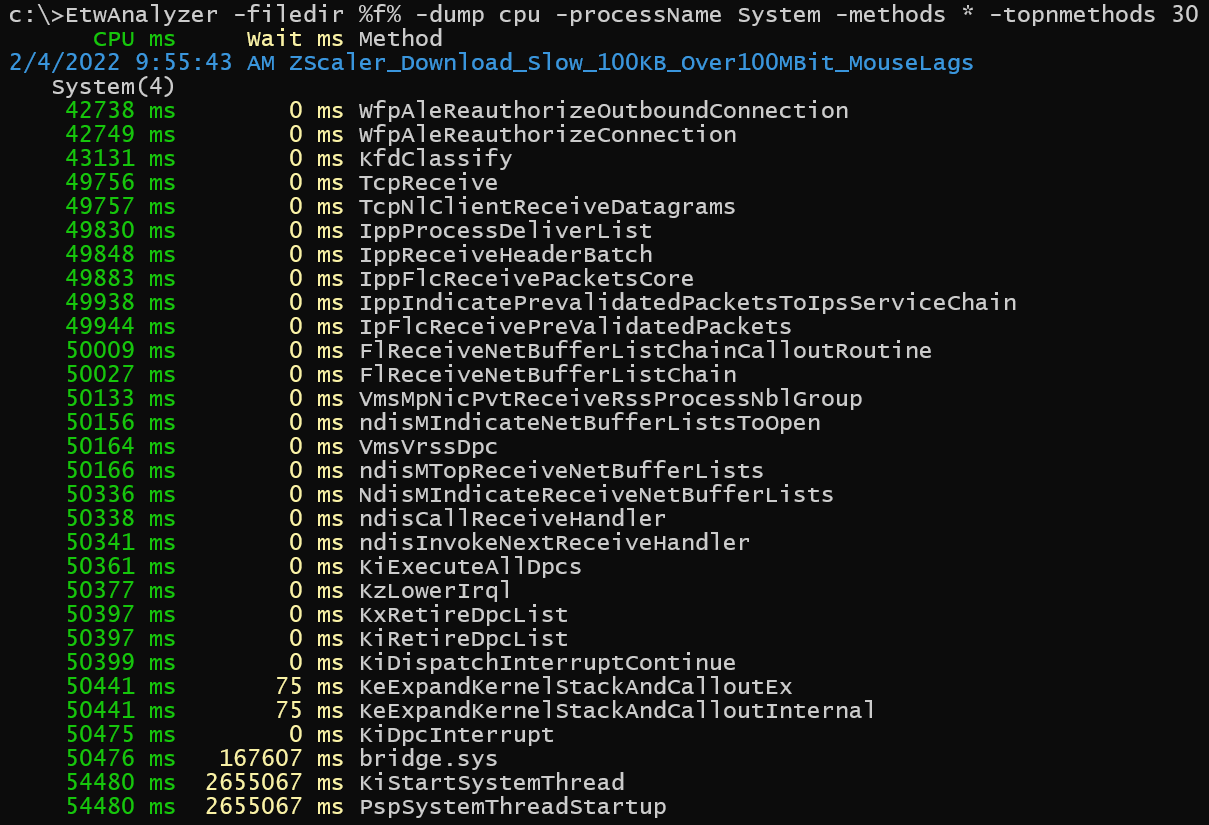
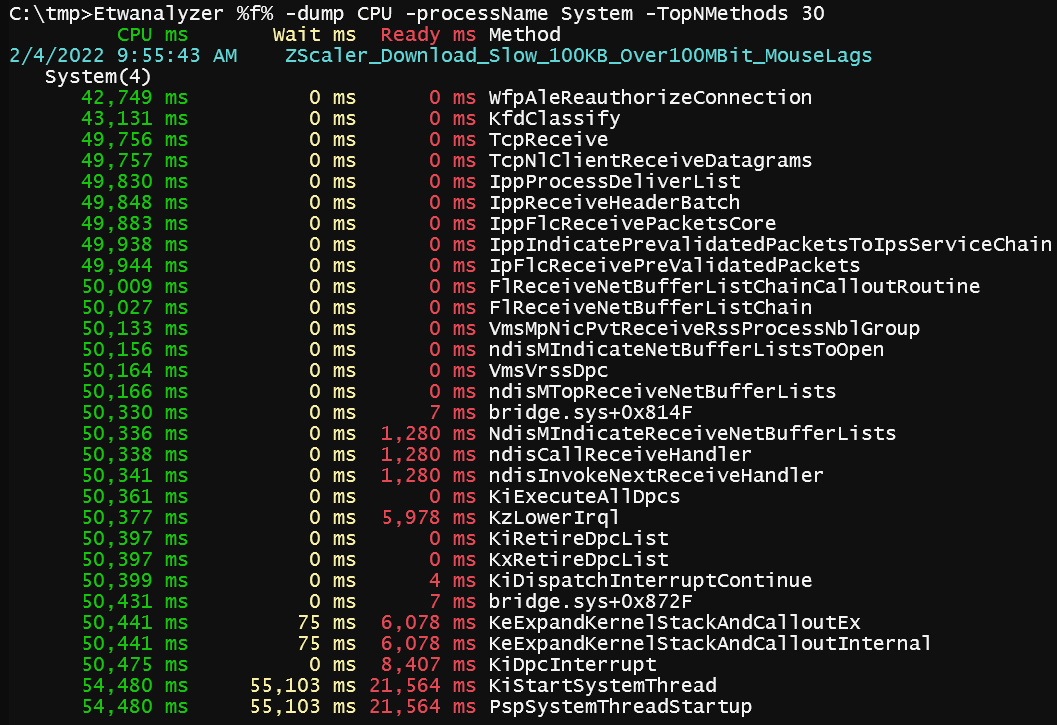
Update Docu for upcoming Release

Changed region(s): [[0.0, 0.0, 0.9991, 1.0], [0.8117, 0.0, 0.9991, 0.0303]]

diff --git a/ETWAnalyzer/Documentation/DumpCPUExtended.md b/ETWAnalyzer/Documentation/DumpCPUExtended.md
@@ -1,0 +1,123 @@
+# Extended CPU Metrics
+
+With the introduction of hybrid CPUs and dynamic frequency shifts from ca. 1 GHz up to 6 GHz performance has become a lot harder to measure and to compare. 
+Internally Microsoft did add a lot of instrumentation but it is not documented how to make use of it. This is an attempt to shed more light on the topic which 
+is the result of many experiments.
+
+ETW can not only record CPU sampling and Context Switch events but also (in not virtualized environments) CPU Frequency, Temperature, CPU Topology and Power profile
+settings. 
+
+## Recording Data
+[ETWController](https://github.com/Alois-xx/etwcontroller) brings in a custom and commented wpr profile [MultiProfile.wprp](https://github.com/Alois-xx/etwcontroller/blob/master/ETWController/ETW/MultiProfile.wprp) profile which can enable all necessary providers. 
+To go to full speed download the profile
+```
+curl https://raw.githubusercontent.com/Alois-xx/etwcontroller/master/ETWController/ETW/MultiProfile.wprp > %temp%\MultiProfile.wprp
+# Replace in .wprp file Strict="true" to nothing to make recording of wpr data possible
+# even when some CPU counter recording is already running
+# This looks to be some bug of WPR which bails out even if you do not intend to record any CPU counters
+wpr -start %temp%\MultiProfile.wprp!CSwitch -start %temp%\MultiProfile.wprp!Frequency -start %temp%\MultiProfile.wprp!Network
+wpr -stop %temp%\FirstLight.etl 
+```
+## Extracting Data
+By default extended CPU metrics is captured. If you add during extraction ```-NoReady``` you can prevent the generation of extended ready metrics data. When CPU Frequency data
+was recorded it is always extracted with the CPU extractor. To get everything use
+```
+C>EtwAnalyzer -extract all -fd %temp%\FirstLight.etl -SymServer ms 
+1 - files found to extract.
+Success Extraction of C:\Users\kraualaz\AppData\Local\Temp\Extract\FirstLight.json
+Extracted 1/1 - Failed 0 files.
+Extracted: 1 files in 00 00:04:37, Failed Files 0
+```
+After extraction you can go to the Extract folder or you can define a variable ```set f=-fd C:\Users\kraualaz\AppData\Local\Temp\Extract\FirstLight.json```
+which is expanded in your shell so you have a short command line. You can combine as many ```-fd``` clauses as you like. It can be folder of extracted files, or you
+filter by substrings like ```-fd C:\...\*fast*.json -fd c:\....\*slow*.json```.
+
+## Dumping Extended Data
+
+
+When you have a hybrid CPU and captured CPU topology data then you get also more details about how many CPUs of each core type you have and what the base frequency for each core type is.
+```
+ETWAnalyzer %f% -dump stats
+```
+![](Images/DumpCPUTopology.png "Dump CPU Topology")
+
+
+To dump extended CPU data add ```-Details``` to ```-Dump CPU```. Depending on what is recorded (Frequency, context switch data) more or less data is displayed. 
+Since the output is multiple lines per method it is usually best to limit it to a few lines. To reduce the amount of data you can use  ```-NoFrequency ``` to omit frequency data, 
+```-NoPriority ``` to omit the process priority besides the executable name and ```-NoReady ``` to omit ready and extended ready data. 
+
+```
+C:\Builds\ETWAnalyzer\ETWAnalyzer>Etwanalyzer -fd %temp%\Extract\FirstLight.json -dump cpu  -topn 1  -topnmethods 1 -details 
+```
+Below is an example of a real case where for two processes the runtime differs by over a factor 6. Because of the large speed difference only partial recordings were done.
+The Duration field which is the time the method was seen last-first time during the trace cannot be used to compare performance. 
+
+![](Images/DumpCpuExtended.png "Dump CPU Extended")
+Windows differentiates P (Power) and E (Efficiency) Cores by an Efficiency Class number which is returned by [GetSystemCpuSetInformation](https://learn.microsoft.com/en-us/windows/win32/procthread/getsystemcpusetinformation) where the 
+SYSTEM_CPU_SET_INFORMATION structure contains the byte field EfficiencyClass. The EfficiencyClass numbering starts at 0 which mark the most power efficient CPUs (usually E-Cores), and then continues with more power hungry
+cores at efficiency class 1 (P-Cores) and so on. It is unclear if with this numbering scheme P cores get an always changing number if more than two efficiency core types exist in one CPU. 
+
+ETWAnalyzer prints the CPU consumption per core type and average frequency. It also prints the CPU affinity of
+the executing threads. That is a best effort because when one pins threads to specific cores no ETW event is generated (to my knowledge). The affinity is determined only during start or stop of an ETW recording for
+still running threads which might be helpful but do not interpret too much into that one. 
+
+Besides frequency and core type also the CPU sleep state plays an important role for performance. A  [Context Switch event](https://learn.microsoft.com/en-us/windows/win32/etw/cswitch) contains a 
+```PreviousCState``` field which tells you when the CPU was in a hardware enabled deep sleep state when it is 1. In WPA it is the column *Prev CState* by which you can group when analyzing CPU Usage (Precise) data. 
+The processor can be powered down completely (including caches) when reaching [C6 state](https://web.stanford.edu/class/ee380/Abstracts/200205-slides.pdf) 
+(see page 36 from Richard L. Sites for more details where Google has found bad performance in their clusters) which is associated with a wakeup cost of up to 100 us or more depending on the CPU type.
+
+Since hardware sleep states are so impactful to performance ETWAnalyzer collects this in an extra metric named ```CPU Wakeup Ready``` times which contains the Ready percentiles and total sum of all context switch events where a free 
+CPU (Idle process was owning the CPU) is waking up from a potentially hardware enabled deep sleep state. 
+If you look at picture in the first process (OpenMPTest 17336) the 50% percentile (also known as median) is 66,9 us which is in line with the expected wakeup time from a deep C6 sleep state. 
+You will find such high wakeup times mostly on server machines, where the C6 sleep state is enabled in the BIOS. On consumer machines you will see usually a much lower wakeup time of (see second process) e.g. 5.8 us.
+The reason is that consumer machines have set a (Intel only) CPU flag to enable C1 Demotion which is telling the CPU to ignore deep sleep requests by the idle threads if the number of sleep requests per time frame is too high.
+
+The other Ready times are all non idle ready times which can show cross process interference or thread ping pong inside one application. In our case by far most events were context switch events from blocking calls which were
+also performed from deep sleep states but the previous owner of the CPU was OpenMPTest and not Idle which is the reason why it shows up under ```Other Ready```. 
+
+The second OpenMPTest run did have a much lower ```CPU Wakeup Ready``` time because the CPU Feature flags C1 Demotion was enabled resulting in much less C6 state transitions which results in higher power consumption but
+lower latencies.
+
+
+### Comparing CPU Data with different frequencies
+When you record CPU data with frequency and you try to compare data you might have a hard time because of different CPU frequencies. For that ETWAnalyzer has the ```-Normalize``` flag which calculates the CPU consumption
+normalized to the nominal (100%) frequency.
+```
+ETWAnalyzer %f% -dump cpu -topn 2 -topnmethods 1 -details  -normalize -noready 
+```
+![](Images/DumpCpu_Normalized.png "Dump CPU Normalized")
+
+In this case the test application did have the same frequency, it was just running not long enough because the process was interrupted with Ctrl-C which is visible
+in the return code when you dump the processes: 
+```
+ETWAnalyzer %f% -dump process -pn OpenMPTest
+```
+![](Images/DumpProcess_CtrlC.png "Dump Process Ctrl-C")
+
+WPA dynamically adds columns to CPU Usage (Sampled/Precise) when your record frequency data. 
+The new WPA columns are 
+ - CPU Frequency
+	- You can plot frequency over time or average it in the table
+ - CPU Frequency (in view)
+	- In a table it will calculate only over the values which are currently visible
+ - CPU Performance
+	- % over/below nominal frequency
+ - (%) Weight by Normalized Utility
+	- Calculates CPU consumption to normalized 100% frequency (no boost)
+ - (%) Weight by Utility
+	- Same as Normalized Utiliy
+
+![](Images/WPA_Frequency.png "WPA Frequency")
+
+In the table above you can e.g. find that the normalized CPU consumption in the ...$omp$1 method was idential (112 s vs 113 s) while the measured one (89 s vs 60 s) is quite different due to different
+CPU frequency which was 2.9 GHz vs 4.7 GHz.
+
+## Hybrid CPU Scheduling
+Running workloads on hybrid CPUs is challenging when the workload is running not on the expected core type. ETWAnalyzer is one of the very few tools which makes
+it easy to find out on which cores at which frequencies your workload was running. If you record the data with MultiProfile.wprp you get also the currently active
+power profile settings dumped to ETW which can be used to compare different Windows power profiles with [-Dump Power](DumpPower.md).
+To compare different power profiles you can run a simple CPU loop which runs for 10s on multiple threads. If you run e.g. 12 threads for 10s you 
+consume by definition regardless of the CPU type 120s of CPU. If due to concurrency and OS madness your threads are piling up on the E or P cores 
+only you would find CPU oversubscription issues when your overall CPU consumption was below 120s. That can be backed by 
+extracting the data to a CSV file and process the data further e..g with Excel to find scheduling issues with different Windows Power profile settings by adding ```-csv issue.csv```
+which all dump commands support.

diff --git a/ReadMe.md b/ReadMe.md
@@ -29,6 +29,28 @@ You want to contribute, miss specific data, or want to add your specific dump co
 ## Documentation
 See [Documentation Folder in Repo](https://github.com/Siemens-Healthineers/ETWAnalyzer/tree/2.5.10.0/ETWAnalyzer/Documentation)
 
+## Dump Commands
+- [CPU](ETWAnalyzer/Documentation/DumpCPUCommand.md) 
+- [CPU Extended](ETWAnalyzer/Documentation/DumpCPUExtended.md) 
+- [Disk](ETWAnalyzer/Documentation/DumpDiskCommand.md) 
+- [Dns](ETWAnalyzer/Documentation/DumpDNSCommand.md)
+- [Exception](ETWAnalyzer/Documentation/DumpExceptionCommand.md)
+- [File](ETWAnalyzer/Documentation/DumpFileCommand.md) 
+- [LBR](ETWAnalyzer/Documentation/DumpLBRCommand.md)
+- [Mark](ETWAnalyzer/Documentation/DumpMarkCommand.md)
+- [Memory](ETWAnalyzer/Documentation/DumpMemoryCommand.md) 
+- [PMC](ETWAnalyzer/Documentation/DumpPMCCommand.md)
+- [Power](ETWAnalyzer/Documentation/DumpPower.md)
+- [Process](ETWAnalyzer/Documentation/DumpProcessCommand.md)  
+- [Stats](ETWAnalyzer/Documentation/StatsCommand.md)
+- [TCP](ETWAnalyzer/Documentation/DumpTCPCommand.md)
+- [TestRun](ETWAnalyzer/Documentation/DumpTestRunCommand.md)
+- [ThreadPool](ETWAnalyzer/Documentation/DumpThreadPoolCommand.md) 
+- [Version](ETWAnalyzer/Documentation/DumpVersionCommand.md)
+
+They all support -filedir/-fd and an extensive command line help what you can dump from the extracted data. 
+
+
 ## Data Generation
 The easiest way to get ETW data is to install [ETWController](https://github.com/Alois-xx/etwcontroller) which comes with predefined WPR profiles. 
 ETWController supports
@@ -56,7 +78,7 @@ Normally you would want to use all builtin extractors which include
 | ------------- | ------------- |
 | All  | Include all extractors  |
 | Default  | Include all extractors except File  |
-| CPU|CPU consumption of all proceses part of the recording. CPU Sampling (*PROFILE*) and/or Context Switch tracing (*CSWITCH*) data with stacks must be present. |
+| CPU|CPU consumption and priority of all proceses part of the recording. Includes CPU Frequency per method and CPU wakeup metrics. CPU Sampling (*PROFILE*) and/or Context Switch tracing (*CSWITCH*) data with stacks must be present. |
 | Stacktag | Get from all processes the CPU call stack summary by the WPA stacktag names. Same recording settings as for CPU are needed. |
 | Memory| Get workingset/committed memory machine wide and of all processes at trace start and a second time at trace end. *MEMINFO_WS* must be present. |
 | Exception|Get all .NET Exception Messages, Type and their call stacks when present with Process,ThreadId and TimeStamp. The *Microsoft-Windows-DotNETRuntime* ETW provider with *ExceptionKeyword 0x8000* and stacks must be present. |
@@ -87,7 +109,7 @@ ETWAnalyzer %f% -dump CPU -topN 1 -methods * -sortby stackdepth -MinMaxCPUMs 100
 ETWAnalyzer %f% -dump CPU -topN 1 -methods * -sortby stackdepth -MinMaxCPUMs 1000 -includedll -threadcount
 ETWAnalyzer %f% -dump CPU -topN 1 -methods * -sortby stackdepth -MinMaxCPUMs 1000 -FirstLastDuration s s
 ETWAnalyzer %f% -dump Stats -Properties SessionDurations
-```
+``` 
 
 This shows a Microsoft Bug at work while some serialization performance test was executed.
 
@@ -98,24 +120,33 @@ After extraction from a > 600 MB input file a small ca. 6 MB file in the output 
 
 ETWAnalyzer will query all files in the current directory if you do not use -filedir/-fd xxx.  
 The first query would be to check on which machine with how much memory, CPU and Windows version it was running. 
-
+```
+set f=-fd c:\Temp\C:\Temp\Extract\ZScaler_Download_Slow_100KB_Over100MBit_MouseLags
+EtwAnalyzer %f% -dump Stats 
+```
 ![alt text](ETWAnalyzer/Documentation/Images/DumpStatsCommand.png "Dump Stats")
 
 If you have a directory of files you can limit the output to specific properties with e.g. *-Properties MemorySizeMB,OSName,NumberOfProcessors,CPUSpeedMHz,CPUVendor,CPUName* to
 get a quick overview of the machine specs of a bunch of extracted ETL files. 
 
 Now we want to get an overview what the CPU consumption was of the top 9 CPU consumers of that file
-
+```
+EtwAnalyzer %f% -dump CPU -topN 9 
+```
 ![alt text](ETWAnalyzer/Documentation/Images/DumpCPUTop9.png "Dump CPU Top 9")
 
 The mouse was hanging while I was downloading data. At the same time the CPU was fully utilized on my quad core notebook.
 The by far highest CPU consumer was the Windows Kernel which sits in the System process. Lets pick that one and print the top 30 methods.
 
-
+```
+EtwAnalyzer %f% -dump CPU -processName System -TopNMethods 30 
+```
 ![alt text](ETWAnalyzer/Documentation/Images/DumpCPUTop30Methods.png "Dump CPU Top 30 Methods")
 
 To understand the data you need to know that ETWAnalyzer keeps for every method in a process the method inclusive times 
-for CPU and Wait summed accross all threads. CPU timing is extracted from CPU sampling data. Wait times are determined from Context Switch data which signal the time a
+for CPU summed accross all threads. The Wait and Ready time is summed accross all threads but overlapping regions are only counted once.
+This means that the maximum Wait/Ready time can get the recording time when at least one thread was always waiting or in the ready queue.
+CPU timing is extracted from CPU sampling data. Wait/Ready times are determined from Context Switch data which is mainly generated when the
 method was moved off a CPU due to a blocking OS call. That is the reason why Main or other entry point methods for a thread have the highest CPU
 consumption but are not the performance bottleneck. The actual issue is in one of the methods which consume CPU which is not directly visible
 in the extracted data.
@@ -132,7 +163,9 @@ lot of time. Since WPA and ETWAnalyzer support stacktags we can dump the top 10 
 After adding "-stacktags *" to the command line we get all stacktags. If you add "-stacktags * -methods *" all methods and stacktags are printed together in one list.
 
 **Note: There is only one filter named -topNMethods which filters for the overall top CPU consumers for methods and stacktags.**
-
+```
+Etwanalyzer %f% -dump CPU -pn System -StackTags * -TopNMethods 10
+```
 ![alt text](ETWAnalyzer/Documentation/Images/DumpCPUTop10Stacktags.png "Dump CPU Top 10 Stacktags")
 
 
@@ -154,35 +187,18 @@ There you can find the exact patch level of the OS or your application dlls whic
 ETWAnalyzer amends version information to CPU data if you add to **-dump CPU** *-ShowModuleInfo* or *-smi*. That will show besides the method names module version data. 
 If you are not using a console with a high console buffer width the output becomes unreadable due to word wrapping. To better support non wraping consoles
 you can add -Clip to all commands of ETWAnalyzer to prevent wraparound of output. Besides the version we would need the dll which is by default
-not printed. But you can add *-IncludeDll* or *-id* to get besides method names also the dll name. 
+not printed. But you can add *-IncludeDll* or *-id* to get besides method names also the dll name. To get rid of the Ready time we can add *-NoReady*.
 
-![alt text](ETWAnalyzer/Documentation/Images/ETWAnalyzer_ClippedOutput.png "Clipped Output")
+```
+Etwanalyzer %f% -dump CPU -pn System -methods * -MinMaxCPUMs 50s-51s -smi -id -clip -NoReady 
+```
+![alt text](ETWAnalyzer/Documentation/Images/ETWAnalyzer_ClippedOutput.png "Clipped Output") 
 
 That small intro showed some of the key features of ETWAnalyzer. With this tool it is easy to detect patterns in thousands of ETL files which
 was an impossible task with other publicly available tools. If you have performance trending tests it makes a lot of sense to run them with ETW profiling enabled 
 so you can later find systematic deviations with a simple query. Issues which were before that tool 
 too much work to track down are now a simple query. If your test is e.g. 3/30 times 20% slower you can query all tests for common patterns to 
 see if e.g. a running Windows Installer did have an effect to your test execution time or if that did occur in other fast tests as well. 
-
-## Dump Commands
-- [CPU](ETWAnalyzer/Documentation/DumpCPUCommand.md) 
-- [Disk](ETWAnalyzer/Documentation/DumpDiskCommand.md) 
-- [File](ETWAnalyzer/Documentation/DumpFileCommand.md) 
-- [Stats](ETWAnalyzer/Documentation/StatsCommand.md)
-- [Process](ETWAnalyzer/Documentation/DumpProcessCommand.md) 
-- [Memory](ETWAnalyzer/Documentation/DumpMemoryCommand.md) 
-- [Version](ETWAnalyzer/Documentation/DumpVersionCommand.md)
-- [Power](ETWAnalyzer/Documentation/DumpPower.md)
-- [Exception](ETWAnalyzer/Documentation/DumpExceptionCommand.md)
-- [ThreadPool](ETWAnalyzer/Documentation/DumpThreadPoolCommand.md) 
-- [Mark](ETWAnalyzer/Documentation/DumpMarkCommand.md)
-- [TestRun](ETWAnalyzer/Documentation/DumpTestRunCommand.md)
-- [PMC](ETWAnalyzer/Documentation/DumpPMCCommand.md)
-- [LBR](ETWAnalyzer/Documentation/DumpLBRCommand.md)
-- [Dns](ETWAnalyzer/Documentation/DumpDNSCommand.md)
-- [TCP](ETWAnalyzer/Documentation/DumpTCPCommand.md)
-
-They all support -filedir and an extensive command line help what you can dump from the extracted data. 
 
 
 

diff --git a/ETWAnalyzer/Documentation/DumpCPUCommand.md b/ETWAnalyzer/Documentation/DumpCPUCommand.md
@@ -4,41 +4,58 @@ Print CPU consumption of processes as total or by method.
 The data in the extracted JSON file is stored for all processes in method granularity. During extraction the default setting is to skip all 
 methods with a *CPU/Wait Time < 10ms*. If you want to see all methods like you do in WPA you need to add *-allCPU* during extraction.
 
-The picture below illustrates what data is stored per method for all processes of the ETL file: 
+The picture below illustrates what data is stored per method for all processes of the ETL file without [extended](DumpCPUExtended.md)  data: 
 
 ![alt text](Images/CPUTimeFirstLast.png "CPU Time First Last")
 
 The extracted data contains for each method in a process
 - CPU usage from sampling data summed across all threads
-- Wait time from Context Switch data summed across all threads where overlapping wait times are counted only once
+- Wait time from Context Switch data summed across all threads where overlapping wait times are counted only once  
+   - This is different in multithreaded applications what WPA shows!
 - Ready time from Context Switch data summed accross all threads where overlapping ready times are counted only once
+   - This is different in multithreaded applications what WPA shows!
+- Average Ready time for all threads
 - Number of threads this method was seen
-- First time this method was seen on any thread
-- Last time this method was seen on any thread
+- First time this method was seen on any thread (from Sampling and CSwitch events hence the small time difference).
+- Last time this method was seen on any thread (from Sampling and CSwitch events hence the small time difference).
+- Number of Context Switch events
 - Average stack depth
 
-To get an overview you would start with -dump CPU and a file name without further options. Since file names tend to be long you simplify
-the command line by putting the file name into an environment variable in your favorite shell. We can then dump the top 5 CPU consuming processes
-with the following command:
+To get an overview you would start with -dump CPU and a file name without further options in the extract folder which will print all files in the current folder. 
+We can then dump the top 5 CPU consuming processes with the following command:
+```
+C:\tmp\Extract>EtwAnalyzer -dump CPU -topN 5
+```
 ![](Images/DumpCPUTop5.png "Dump CPU Top 5")
+
+In this view also the average dynamic process priority is shown. The priority data is taken either from CPU sampling or Context Switch data. 
+Dynamic priority means that this is not the priority you did set for your process/thread but the prority the OS did use after applying priority
+boosts. The priority can be important to spot scheduling issues when CPU is low or when hybrid CPUs (Alder Lake+) on Windows 10 are used. 
+On Windows 10 for Below Normal priority processes the work is scheduled almost 100% to the Efficicency Cores. 
 
 Did you notice the +- after the process SerializerTests? These characters signal that the process was started + and has ended - during 
 the recording. The other processes did run since trace start. You can print also the process start time instead of the +- signs to analyze 
-startup/shutdown performance issues with the *-ProcessFmt* option:
+startup/shutdown performance issues with the ```-ProcessFmt``` option:
+```
+C:\tmp\Extract>EtwAnalyzer -dump CPU -topN 2 -ProcessFmt s 
+```
+![](Images/DumpCPUTopN2ProcessFmt.png "Dump CPU Top 2 Processes")
 
-
-![](Images/DumpCPUTopN1ProcessFmt.png "Dump CPU Top 20 Methods")
-
+The +- signs are replaced by start/stop and duration for the process.
 The blue part after the process name is its command line. If you are using custom color schemes in your shell you can add *-nocolor* to omit coloring output.
 If you are experiencing word wrapping in your shell you can add *-clip* to prevent word wrapping while omitting the additional output which did clutter
 your console. This is very useful to copy the output into an Email to show the issue a colleague.
 
 Lets look inside the top 20 methods of SerializerTests
-
+```
+C:\tmp\Extract>EtwAnalyzer -dump CPU -pn SerializerTests -topNMethods 20
+```
 ![](Images/DumpCPUTop20Methods.png "Dump CPU Top 20 Methods")
 
 The dump command supports many additional options to add context data depending on what you are after:
-
+```
+C:\tmp\Extract>EtwAnalyzer -dump CPU -pn SerializerTests -methods * -threadcount -fld s s -showtotal method -includedll -includeargs -showmoduleinfo
+```
 ![alt text](Images/DumpCPU_All.png "Dump CPU All")
 
 The CPU consumption and wait time of a method in a process are summed over all threads. This is the main reason 
@@ -159,7 +176,9 @@ Because we know that this test runs single threaded we have therefore a true tes
 slowdown and we can trust this number. 
 
 To identify the region where Defender did intercept our calls we can use WPA, or we can interleave method names and Stacktags in one common output. 
-
+```
+EtwAnalyzer -dump CPU -pn SerializerTests -stacktags *virus* -methods * -minmaxWaitMs 500-900 -SortBy wait
+```
 ![](Images/DumpCPUAV_SortByWait.png "Dump AV Sort By Wait")
 
 We dump all methods which have a wait time between 500-900ms, then we sort by wait time ascending. 
@@ -168,7 +187,9 @@ to the pretty high wait times in the CreateFile method calls. Microsoft does not
 but there is a list of pretty much all Filter Driver altitudes published by Microsoft which is a collection
 of the Who’s Who of AV device drivers. ETWAnalyzer can use that to our advantage and print module infos for well known
 driver names:
-
+```
+EtwAnalyzer -dump CPU -pn SerializerTests -stacktags *virus* -methods * -MinMaxWaitMs 500-900 -SortBy Wait -id -smi -clip -NoReady
+```
 ![alt text](Images/WindowsDefender_SMI.png)
 
 WdFilter.sys is one the Windows Filter drivers used by Defender to intercept central operations such as process creation, file 
